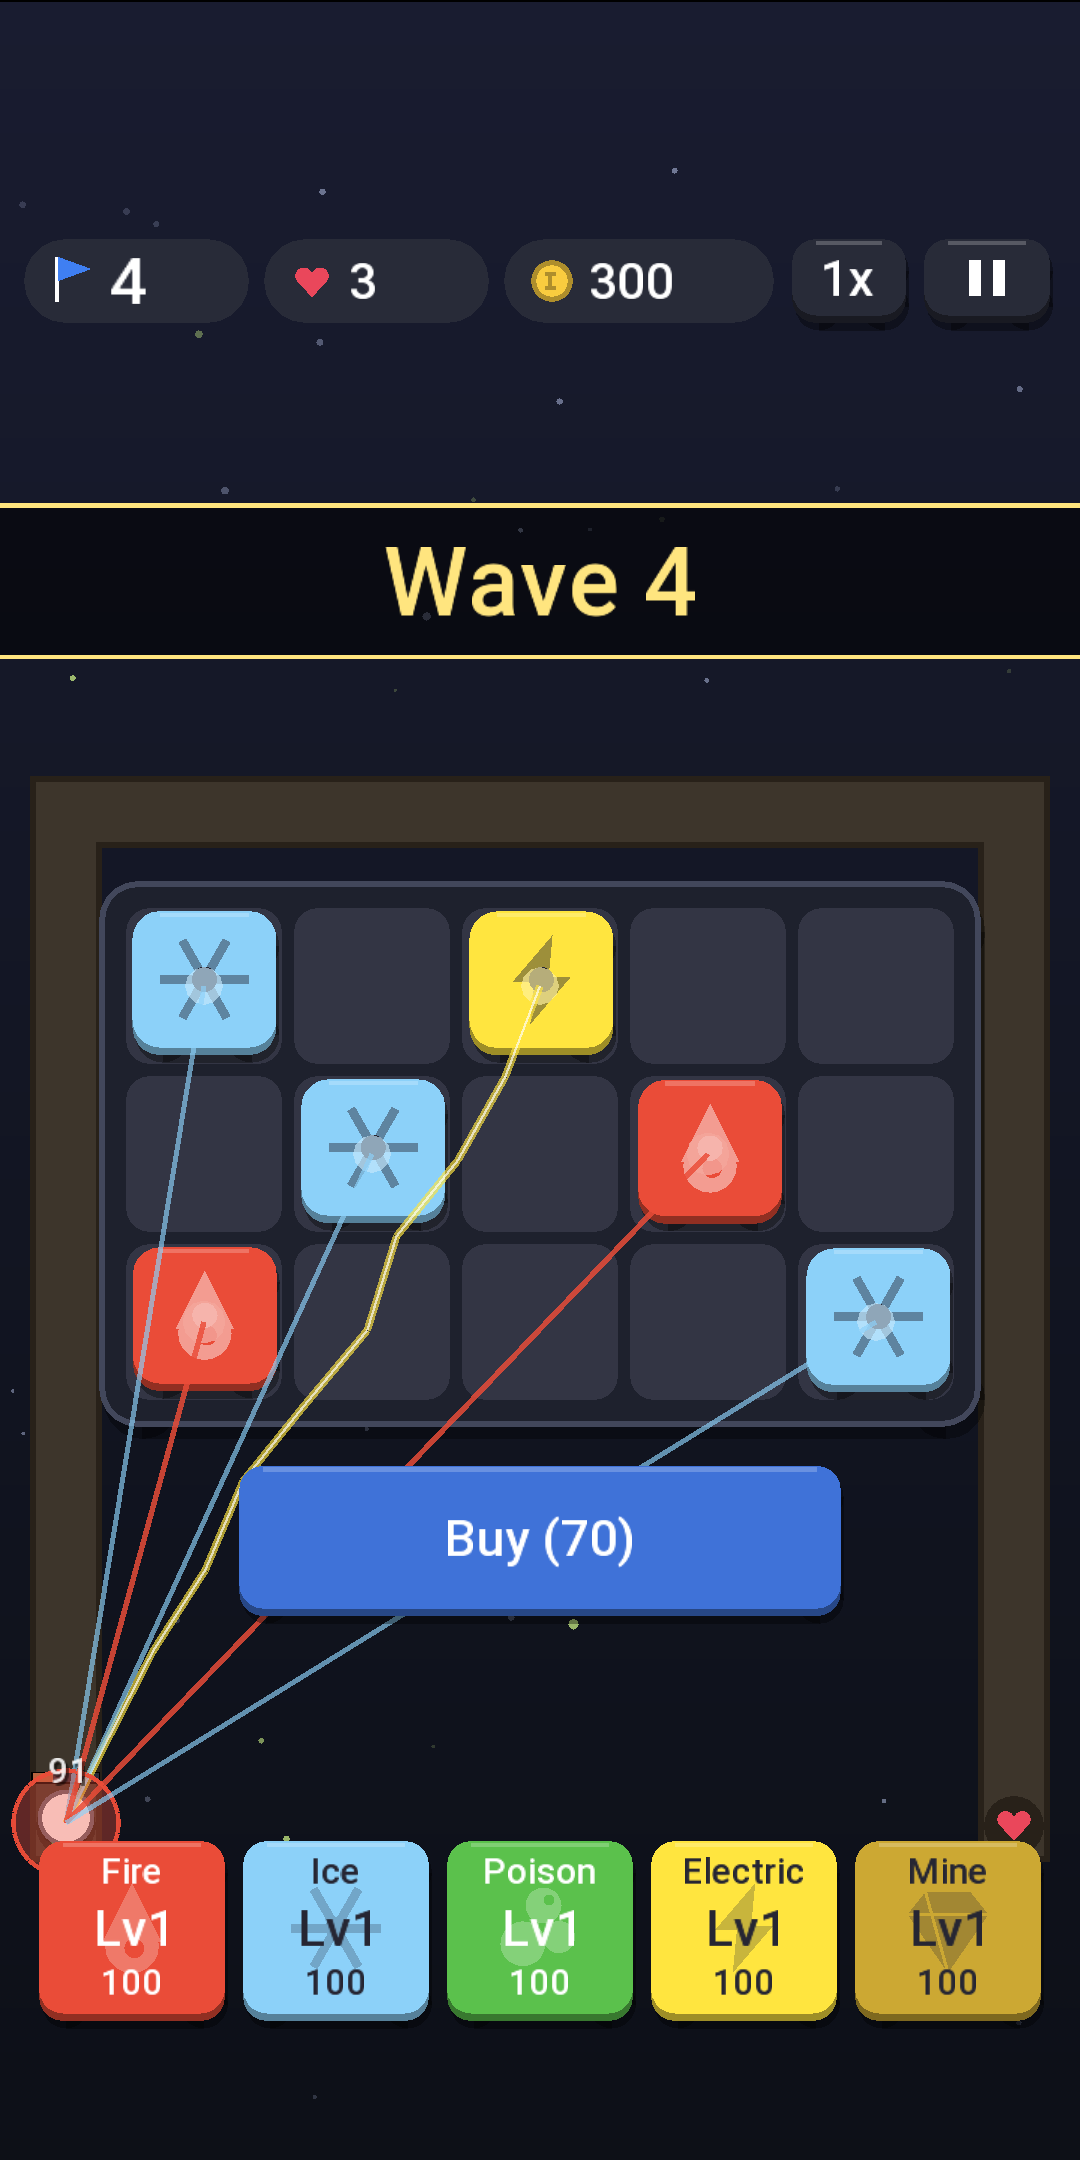
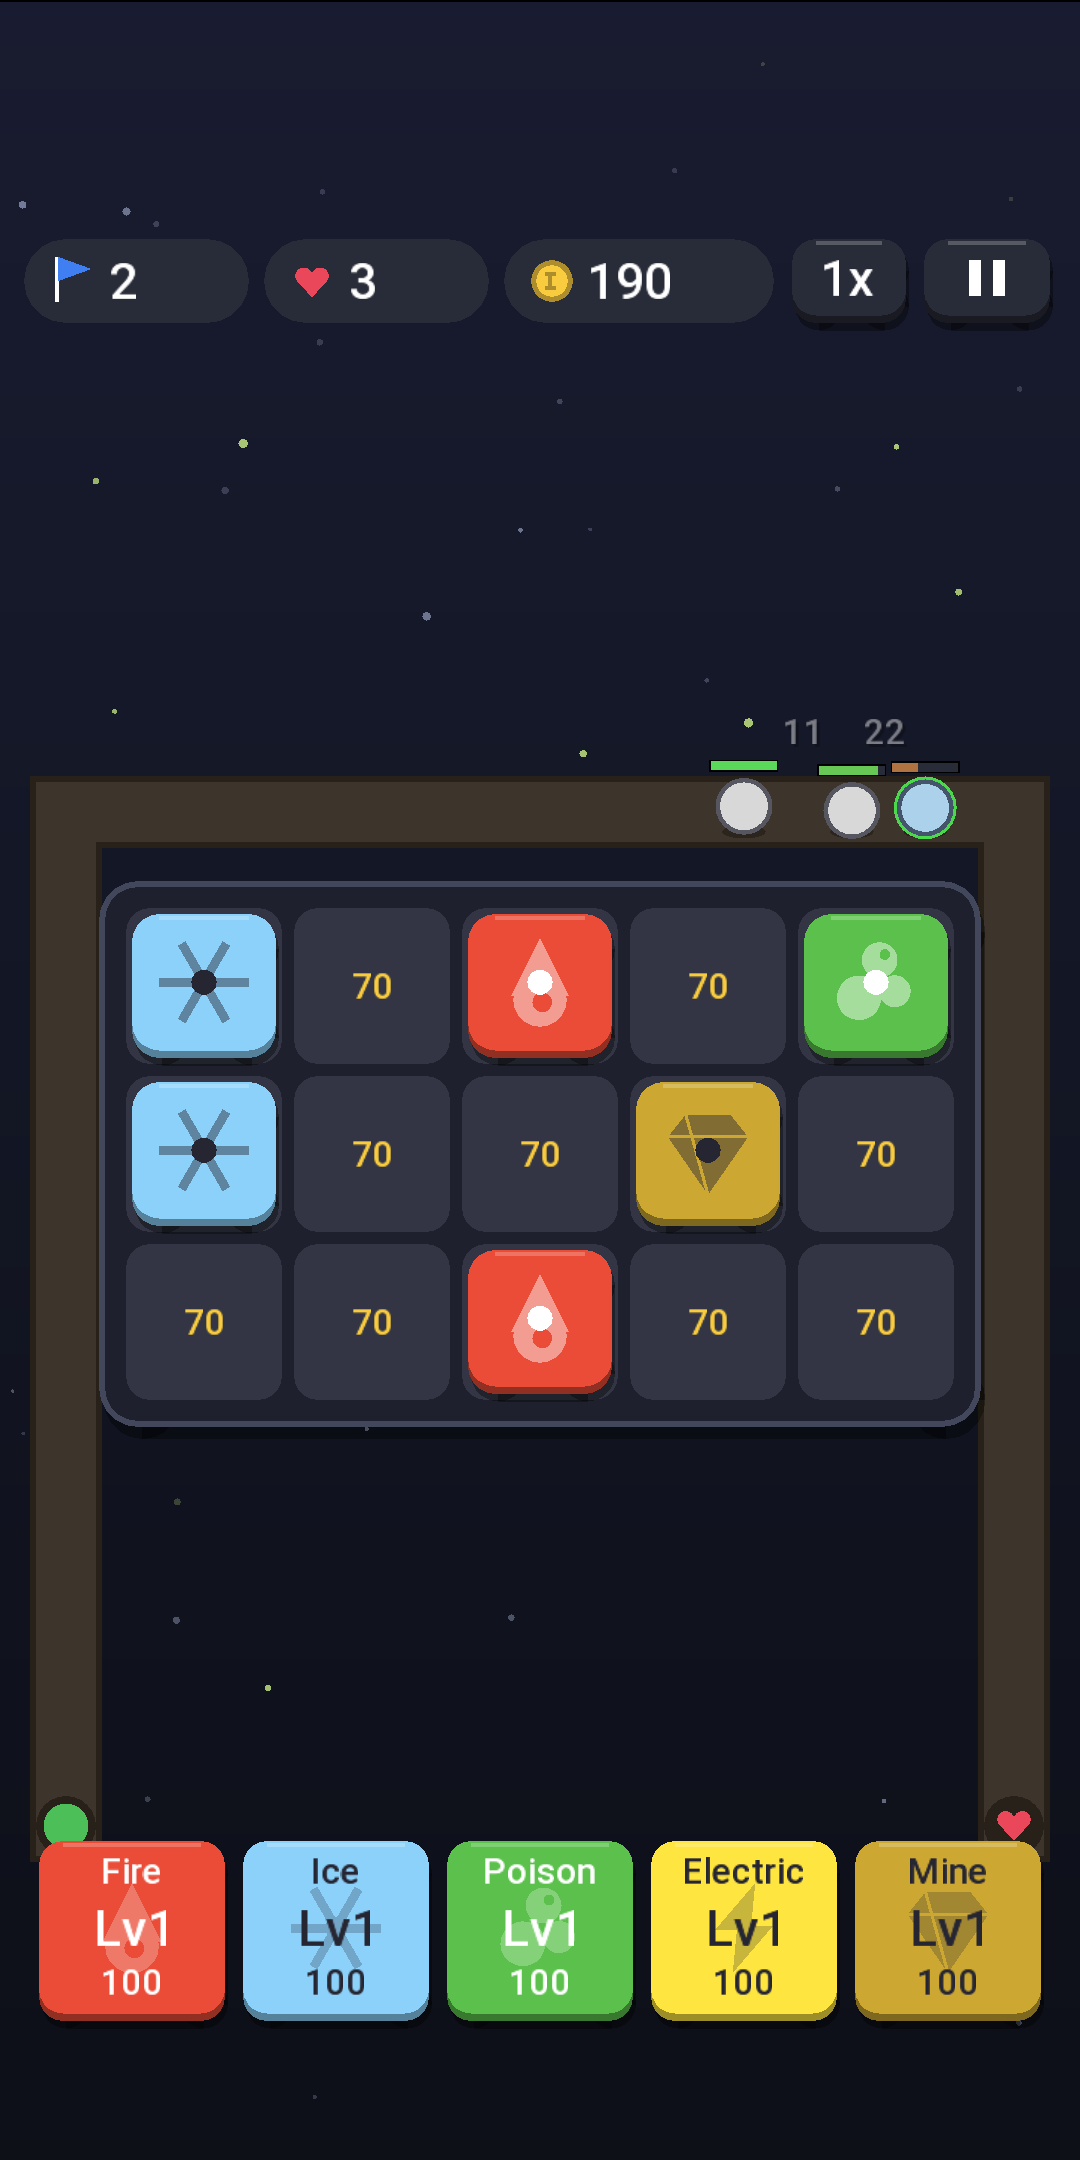
chore: store match screenshots redone with cell prices; Play Games SDK only initializes while the cloud is on
Initializing the SDK triggers Google's automatic sign-in and, on a device with no
account, its add-account screen on top of the game; now it happens only while the
cloud is on, and on demand when the player turns it on.

diff --git a/android/src/main/kotlin/com/iagothz/mergetd/android/PlayGamesCloud.kt b/android/src/main/kotlin/com/iagothz/mergetd/android/PlayGamesCloud.kt
@@ -5,6 +5,7 @@ import com.badlogic.gdx.Gdx
 import com.google.android.gms.common.api.ApiException
 import com.google.android.gms.common.api.CommonStatusCodes
 import com.google.android.gms.games.PlayGames
+import com.google.android.gms.games.PlayGamesSdk
 import com.google.android.gms.games.SnapshotsClient
 import com.google.android.gms.games.snapshot.Snapshot
 import com.google.android.gms.games.snapshot.SnapshotMetadataChange
@@ -21,19 +22,25 @@ import com.iagothz.mergetd.ui.CloudSave
 class PlayGamesCloud(private val activity: Activity) : CloudSave {
     override val available = true
 
+    /** Idempotent: the launcher skips it while the cloud is off, so every call makes sure it happened. */
+    private fun init() = PlayGamesSdk.initialize(activity)
+
     override fun signIn(done: (Boolean) -> Unit) {
+        init()
         PlayGames.getGamesSignInClient(activity).signIn().addOnCompleteListener { t ->
             post { done(t.isSuccessful && t.result.isAuthenticated) }
         }
     }
 
     override fun isSignedIn(done: (Boolean) -> Unit) {
+        init()
         PlayGames.getGamesSignInClient(activity).isAuthenticated.addOnCompleteListener { t ->
             post { done(t.isSuccessful && t.result.isAuthenticated) }
         }
     }
 
     override fun download(done: (CloudResult<String?>) -> Unit) {
+        init()
         val client = PlayGames.getSnapshotsClient(activity)
         open(client).addOnCompleteListener { t ->
             val snapshot = t.snapshot()
@@ -51,6 +58,7 @@ class PlayGamesCloud(private val activity: Activity) : CloudSave {
     }
 
     override fun upload(blob: String, description: String, done: (CloudResult<Unit>) -> Unit) {
+        init()
         val client = PlayGames.getSnapshotsClient(activity)
         open(client).addOnCompleteListener { t ->
             val snapshot = t.snapshot()

diff --git a/android/src/main/kotlin/com/iagothz/mergetd/android/AndroidLauncher.kt b/android/src/main/kotlin/com/iagothz/mergetd/android/AndroidLauncher.kt
@@ -21,7 +21,10 @@ class AndroidLauncher : AndroidApplication() {
             // 4x MSAA: everything is drawn with ShapeRenderer, so edges would be jagged without it.
             numSamples = 4
         }
-        PlayGamesSdk.initialize(this)
+        // Initializing the SDK triggers Google's automatic sign-in (and, with no account on the device, its
+        // add-account screen), so it only happens while the player keeps the cloud on; PlayGamesCloud does it
+        // on demand if the cloud is turned on later.
+        if (getSharedPreferences("merge-td", MODE_PRIVATE).getBoolean("sync.enabled", true)) PlayGamesSdk.initialize(this)
         val game = MergeTdGame(
             shareText = { text ->
                 runOnUiThread {
